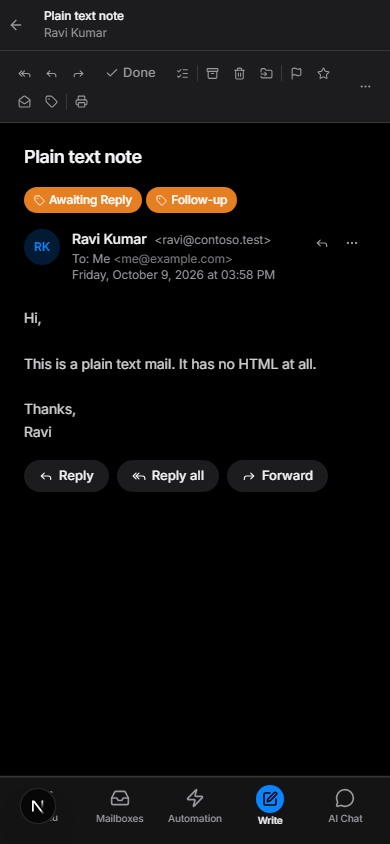
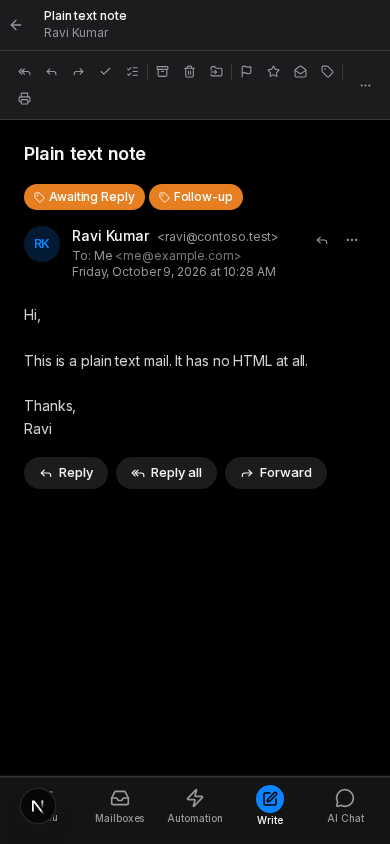
Task 3995 fix round 2 check: the follow-up scan keeps its name, phone captures
- followups.py: the split into a wrapper and _follow_up_scan hid the scan
  from the source fences that read _maybe_send_follow_up_reminders
  (test_email_follow_up_scan, test_email_automation_tenancy THE_TEN,
  test_email_no_tier_choice, test_email_rulepath_draft_parity,
  test_email_draft_no_stall). The scan keeps its name again, and
  mark_done.heal_held runs in its finally clause, after the block of the
  scan ends. No test changed.
- reports/email-done: the rig took the 390 px pane, toast and move-back
  captures again, light and dark, because the Done button of the phone bar
  is an icon now. The notes name an open defect: at 390 px the Print icon
  still goes to a second row.
- email_app_master_plan.md 6.6: the spec said the bar stays one row at
  390 px. The capture shows two rows, so the spec now names the defect.

diff --git a/reports/email-done/index.html b/reports/email-done/index.html
@@ -73,13 +73,16 @@ extra("8. Keyboard: the focus on Done",
   "Tab moves from Forward to Done. Enter then marks the mail done, and Ctrl+Z moves it back.",
   [["focus-done--dark.png", "Dark, 1440"], ["focus-done--light.png", "Light, 1440"]]);
 extra("9. Keyboard: the row menu (a limit of before)",
-  "The menu does not take the focus, so one Tab goes to the page behind it. The code of the menu had this limit before. The key d marks a mail done from the keyboard. After Ctrl+Z the toast stays until its time ends.",
+  "The menu does not take the focus, so one Tab goes to the page behind it. The code of the menu had this limit before. The key d marks a mail done from the keyboard. After Ctrl+Z the toast closes (fix round 2).",
   [["focus-menu--dark.png", "Dark, 1440"], ["focus-menu--light.png", "Light, 1440"]]);
 const notes = document.createElement("h2"); notes.textContent = "Visual review";
 const list = document.createElement("ul");
 for (const line of [
   "Found and repaired: after Done, the reading pane kept the old labels of the open mail.",
   "The red \"1 Issue\" badge on the light phone menu comes from the development server. The capture with the flag off shows it too.",
+  "Fix round 2 (2026-11-26): on a phone, Done in the bar of the pane is now an icon. The rig took the phone captures of sections 2, 5 and 6 again. The desktop bar did not change, so its captures stay.",
+  "Open defect: at 390 px the bar of the pane still has two rows. The Print icon goes to a second row. Before this round, three icons went to the second row.",
+  "Section 6 on a phone: after Ctrl+Z the toast closes, and the labels of before return.",
   "Not opened: widths of 1280 and 1920, comfortable density, a conversation of two or more messages after Done, hover states, a real mailbox.",
 ]) { const li = document.createElement("li"); li.textContent = line; list.appendChild(li); }
 out.append(notes, list);

diff --git a/apps/services/gateway/gateway/routes/email/automation/followups.py b/apps/services/gateway/gateway/routes/email/automation/followups.py
@@ -71,21 +71,6 @@ _FOLLOW_UP_MAX_AGE_DAYS = 30
 
 
 async def _maybe_send_follow_up_reminders(account_id: str) -> dict[str, int | bool]:
-    """The follow-up scan (:func:`_follow_up_scan`), then the sweep of the
-    held threads (task 3995, ``mark_done.heal_held``).
-
-    The sweep runs after the block of the scan commits, so it sees a label
-    that the scan wrote while the member marked the thread done. The sync
-    loop calls this each cycle, so a held thread with an open label heals at
-    the next cycle at the latest. With ``EMAIL_MARK_DONE_ORGS`` off the sweep
-    reads nothing.
-    """
-    result = await _follow_up_scan(account_id)
-    await mark_done.heal_held(account_id)
-    return result
-
-
-async def _follow_up_scan(account_id: str) -> dict[str, int | bool]:
     """Label (and optionally draft a nudge for) threads waiting too long for a
     reply. Runs both on the sync loop (background) and on demand via the
     "Find follow-ups" button (POST /email/follow-ups/scan).
@@ -104,6 +89,13 @@ async def _follow_up_scan(account_id: str) -> dict[str, int | bool]:
     tenant, and the scan route calls this inside its request. The block holds
     its session across the draft model call and ``create_draft``, as the code
     did before, and EM-T4 owns that I/O.
+
+    Task 3995: after the block of the scan ends, ``mark_done.heal_held``
+    sweeps the held threads of the mailbox (the ``finally`` clause). The
+    sweep sees a label that the scan wrote while the member marked the thread
+    done. The sync loop calls this each cycle, so a held thread with an open
+    label heals at the next cycle at the latest. With ``EMAIL_MARK_DONE_ORGS``
+    off the sweep reads nothing.
     """
     result: dict[str, int | bool] = {
         "configured": False, "scanned": 0, "labeled": 0, "drafted": 0,
@@ -303,4 +295,8 @@ async def _follow_up_scan(account_id: str) -> dict[str, int | bool]:
     except Exception as exc:  # noqa: BLE001
         _log.warning("email.follow_up_failed", account_id=account_id,
                      error=str(exc)[:200])
+    finally:
+        # Each exit of the scan, an early return too, runs the sweep. The
+        # block above has ended, so the sweep reads its commit.
+        await mark_done.heal_held(account_id)
     return result

diff --git a/project-docs/specs/email_app_master_plan.md b/project-docs/specs/email_app_master_plan.md
@@ -481,7 +481,8 @@ the app shows these surfaces:
   The toast closes when the step ran, from either control.
 
 On a phone the "Done" button is an icon with the name "Mark done", as Reply and
-Forward are. So the bar stays one row at 390 px. Email claims the undo scope only
+Forward are. ⚠ Open defect: at 390 px the bar still has two rows, and the Print
+icon goes to the second row (capture of 2026-11-26). Email claims the undo scope only
 with the flag on. The flag off leaves the history of another surface alone (D10).
 
 **Accepted limits.**
